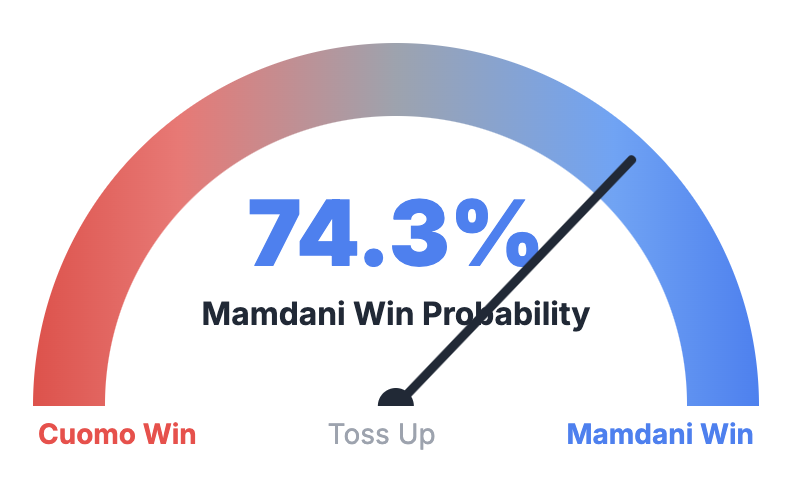
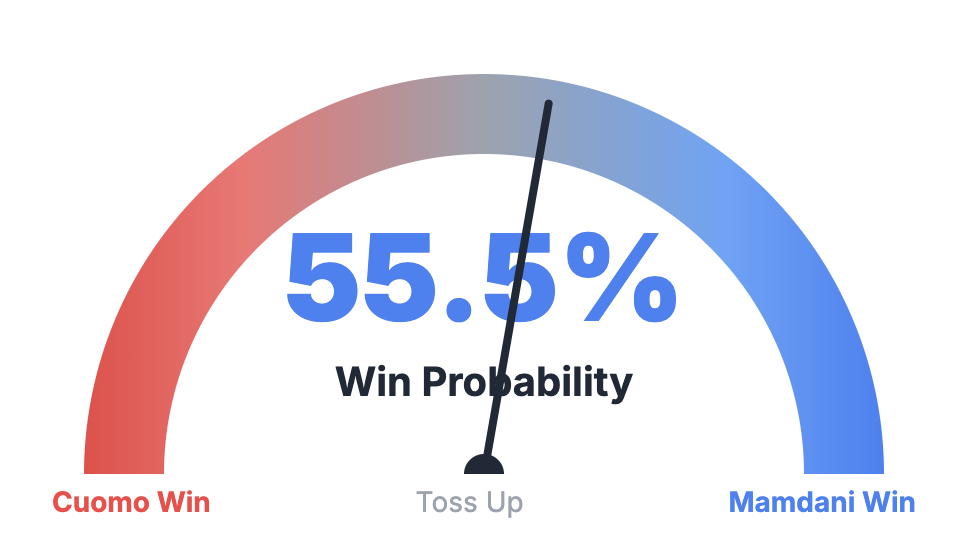
cache busting

Changed region(s): [[0.0311, 0.0625, 0.9639, 0.9375], [0.6841, 0.875, 0.9639, 0.9375], [0.4042, 0.875, 0.5597, 0.9375]]

diff --git a/index.html b/index.html
@@ -27,6 +27,22 @@
     <meta property="twitter:description" content="Live prediction model for the 2025 NYC Democratic mayoral primary. See our comprehensive analysis.">
     <meta property="twitter:image" content="https://elections.cosmicolabs.com/winprob.png">
     
+    <script>
+        // Add cache-busting to meta images for fresh social media previews
+        document.addEventListener('DOMContentLoaded', function() {
+            const timestamp = new Date().getTime();
+            const metaOgImage = document.querySelector('meta[property="og:image"]');
+            const metaTwitterImage = document.querySelector('meta[property="twitter:image"]');
+            
+            if (metaOgImage) {
+                metaOgImage.content = `https://elections.cosmicolabs.com/winprob.png?v=${timestamp}`;
+            }
+            if (metaTwitterImage) {
+                metaTwitterImage.content = `https://elections.cosmicolabs.com/winprob.png?v=${timestamp}`;
+            }
+        });
+    </script>
+    
     <!-- Favicon and App Icons -->
     <link rel="icon" type="image/png" sizes="32x32" href="winprob-icon.png">
     <link rel="icon" type="image/png" sizes="16x16" href="winprob-icon.png">
@@ -43,7 +59,7 @@
       "description": "Prediction model for the 2025 NYC Democratic mayoral primary. Analysis of early voting, polling trends, and key factors.",
       "url": "https://elections.cosmicolabs.com/",
       "datePublished": "2025-06-23",
-      "dateModified": "2025-06-23",
+      "dateModified": "2025-06-24",
       "author": {
         "@type": "Organization",
         "name": "Elections Analysis"
@@ -55,7 +71,7 @@
       },
       "image": {
         "@type": "ImageObject",
-        "url": "https://elections.cosmicolabs.com/winprob.png",
+        "url": "https://elections.cosmicolabs.com/winprob.png?v=" + new Date().getTime(),
         "width": 1200,
         "height": 630
       },
@@ -533,7 +549,9 @@
     // Load model data from JSON
     async function loadModelData() {
         try {
-            const response = await fetch('model_results.json');
+            // Add timestamp to prevent caching
+            const timestamp = Date.now();
+            const response = await fetch(`model_results.json?v=${timestamp}`);
             if (!response.ok) {
                 throw new Error('Failed to load model data');
             }
@@ -1015,6 +1033,12 @@
     // Load data when page loads
     document.addEventListener('DOMContentLoaded', function () {
         loadModelData();
+        
+        // Refresh data every 5 minutes (300000 ms)
+        setInterval(function() {
+            console.log('Auto-refreshing model data...');
+            loadModelData();
+        }, 300000);
     });
     </script>
 </body>
